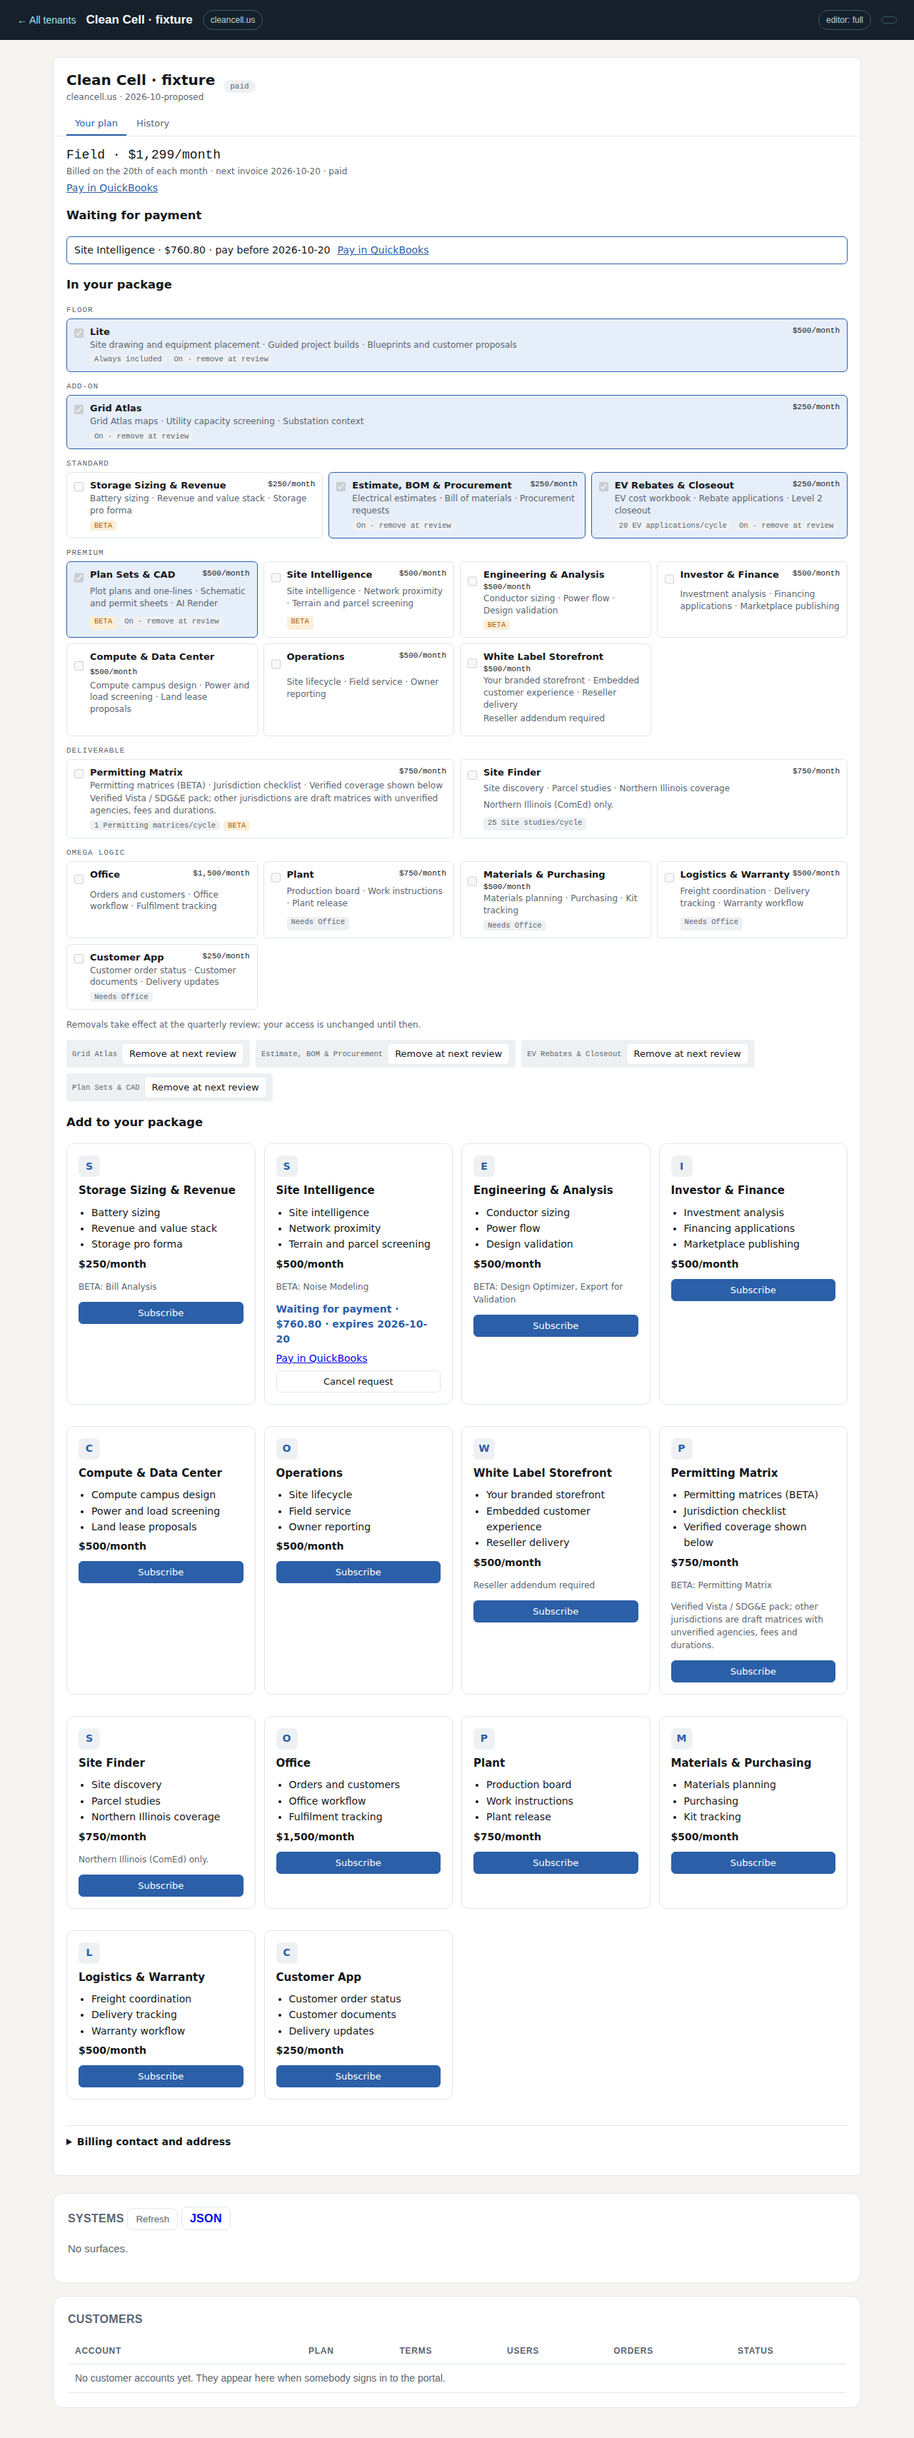
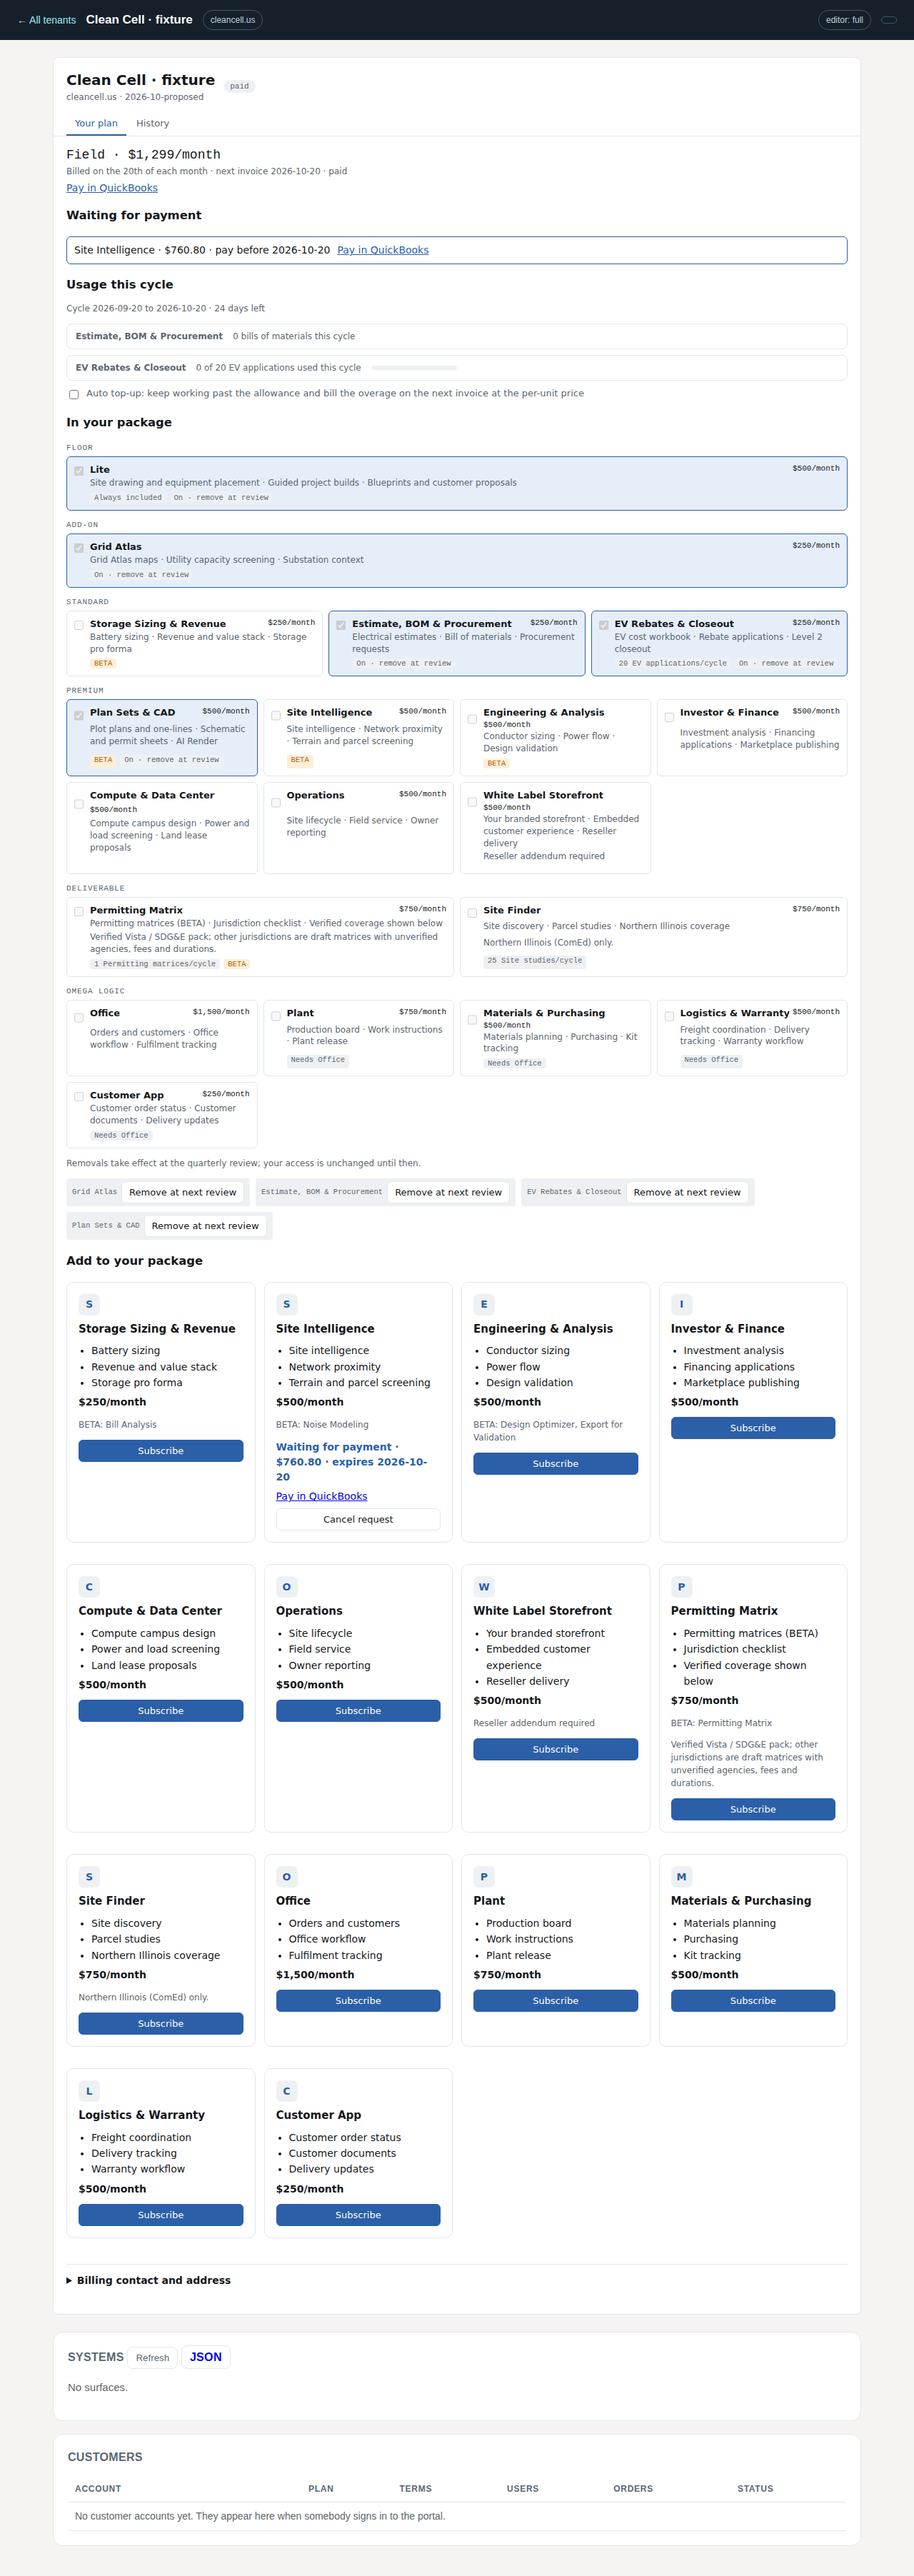
docs: phase 7 screenshots, PR link and preview
Your plan's captures from Phases 4 and 5 are re-taken because the tab now
carries the usage section.

Claude-Session: https://claude.ai/code/session_01NgjovuYzEurHoG46zsYYrF

diff --git a/docs/PACKAGING-ROADMAP.md b/docs/PACKAGING-ROADMAP.md
@@ -24,7 +24,7 @@ https://claude.ai/artifact/2Sou93uMRrCsc8K4E2Xg8n (private to the owner).
 | 5 · Subscribe in the editor (Step A) | [#140](https://github.com/clearskyenergy/omega-core/pull/140) · [preview](https://omega-core-git-codex-packaging-phase-5-clearsky-usa.vercel.app), stacked on #139 | draft, unmerged; npm test + check:pages pass; disabled | `POST /api/plan-change` (quote, apply, cancel, removals), the subscribe control in the + Modules gallery and Your plan, subscription-vs-grant split, change invoices in reconciliation. $0 inside a paid tier activates immediately (option 1, 2026-09-26). See PACKAGING-PHASE-5-VALIDATION.md; a real sandbox change payment and Step B remain. |
 | 5b · Card on file (Step B) | | blocked on Tommy | QuickBooks Payments permission |
 | 6 · Proposal tool | [#141](https://github.com/clearskyenergy/omega-core/pull/141) · [preview](https://omega-core-git-codex-packaging-phase-6-clearsky-usa.vercel.app), stacked on #140 | draft, unmerged; npm test + check:pages pass; disabled | `subscription-proposal.html` for the reps (discovery → package → value → terms → seven-page deck with the Order Form → send), `proposal.html` for the customer, `POST /api/subscription-proposal`; accepting routes through signup, plan-change or activation and never prices. Signup walks the same discovery and stores the answers. See PACKAGING-PHASE-6-VALIDATION.md; a real sandbox send/acceptance and White Label senders remain. |
-| 7 · Usage and review | draft PR pending, stacked on #141 | implemented; npm test + check:pages pass; disabled | Cycle-keyed usage counters (EV applications, site studies, BOM activity), the produce gate with the pack offer, overage lines on the recurring invoice, buy-more packs through reconciliation, auto top-up, the 90-day review on the Package tab and Your plan. Permitting matrices await their producer. See PACKAGING-PHASE-7-VALIDATION.md. |
+| 7 · Usage and review | [#142](https://github.com/clearskyenergy/omega-core/pull/142) · [preview](https://omega-core-git-codex-packaging-phase-7-clearsky-usa.vercel.app), stacked on #141 | draft, unmerged; npm test + check:pages pass; disabled | Cycle-keyed usage counters (EV applications, site studies, BOM activity), the produce gate with the pack offer, overage lines on the recurring invoice, buy-more packs through reconciliation, auto top-up, the 90-day review on the Package tab and Your plan. Permitting matrices await their producer. See PACKAGING-PHASE-7-VALIDATION.md. |
 
 ---
 

diff --git a/docs/PACKAGING-PHASE-7-VALIDATION.md b/docs/PACKAGING-PHASE-7-VALIDATION.md
@@ -2,10 +2,9 @@
 
 © 2025–2026 ClearSky Energy Solutions LLC. Proprietary and Confidential.
 
-Draft PR (stacked on Phase 6, [#141](https://github.com/clearskyenergy/omega-core/pull/141));
-the PR link is recorded in the roadmap status table once opened. Vercel
-builds the branch at
-`https://omega-core-git-codex-packaging-phase-7-clearsky-usa.vercel.app`.
+Draft PR [#142](https://github.com/clearskyenergy/omega-core/pull/142),
+stacked on Phase 6 ([#141](https://github.com/clearskyenergy/omega-core/pull/141)).
+[Vercel preview](https://omega-core-git-codex-packaging-phase-7-clearsky-usa.vercel.app).
 No live organization, trial, billing date, QuickBooks record, environment
 variable or deployed rule was changed. Runtime flags remain off by default;
 the proposed book remains disabled in the seed.
